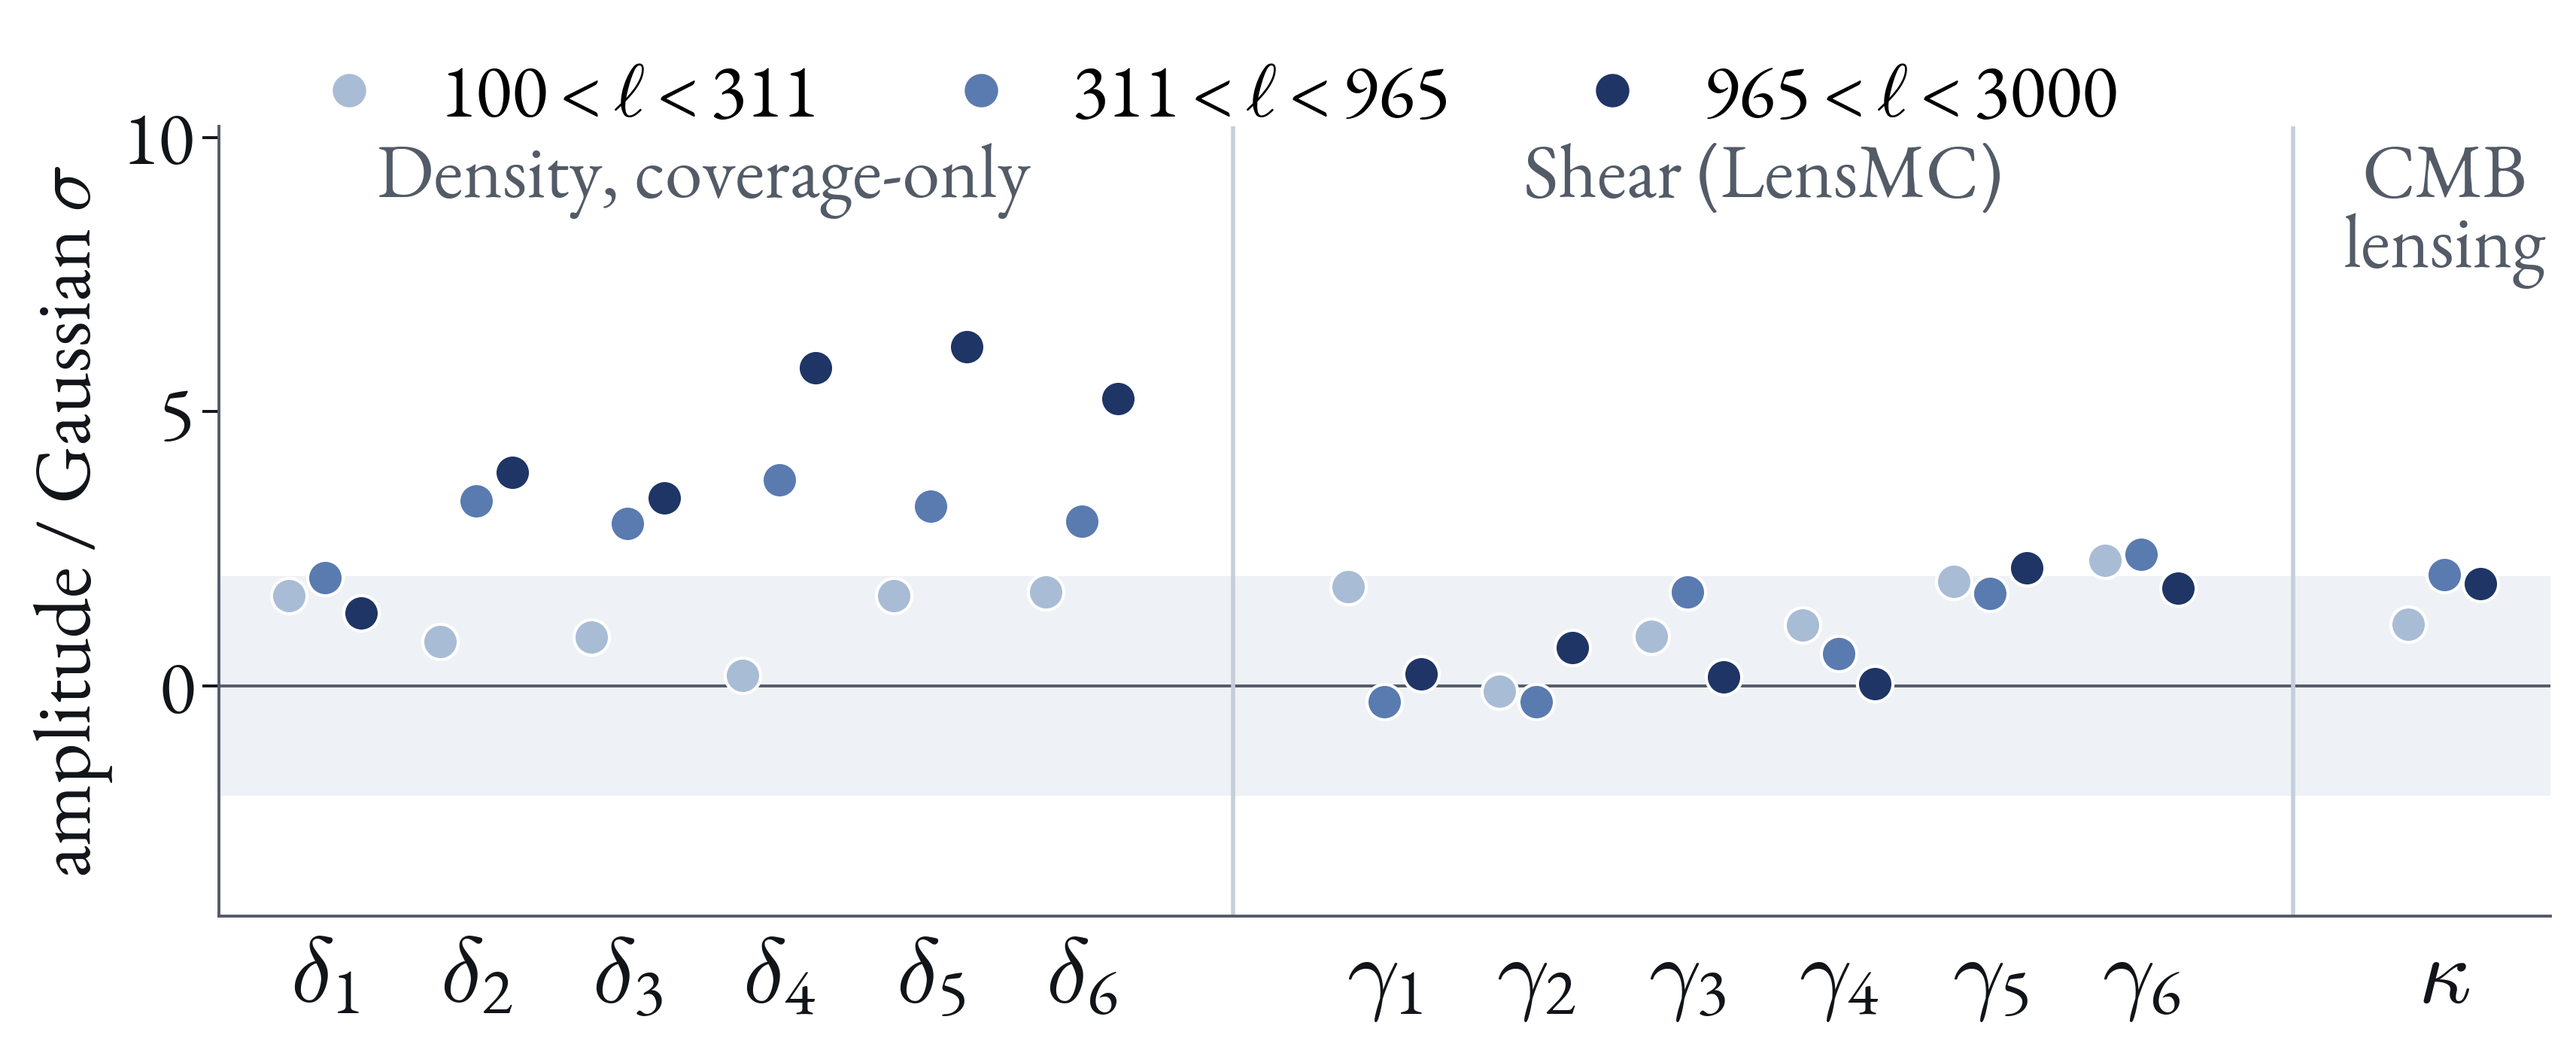
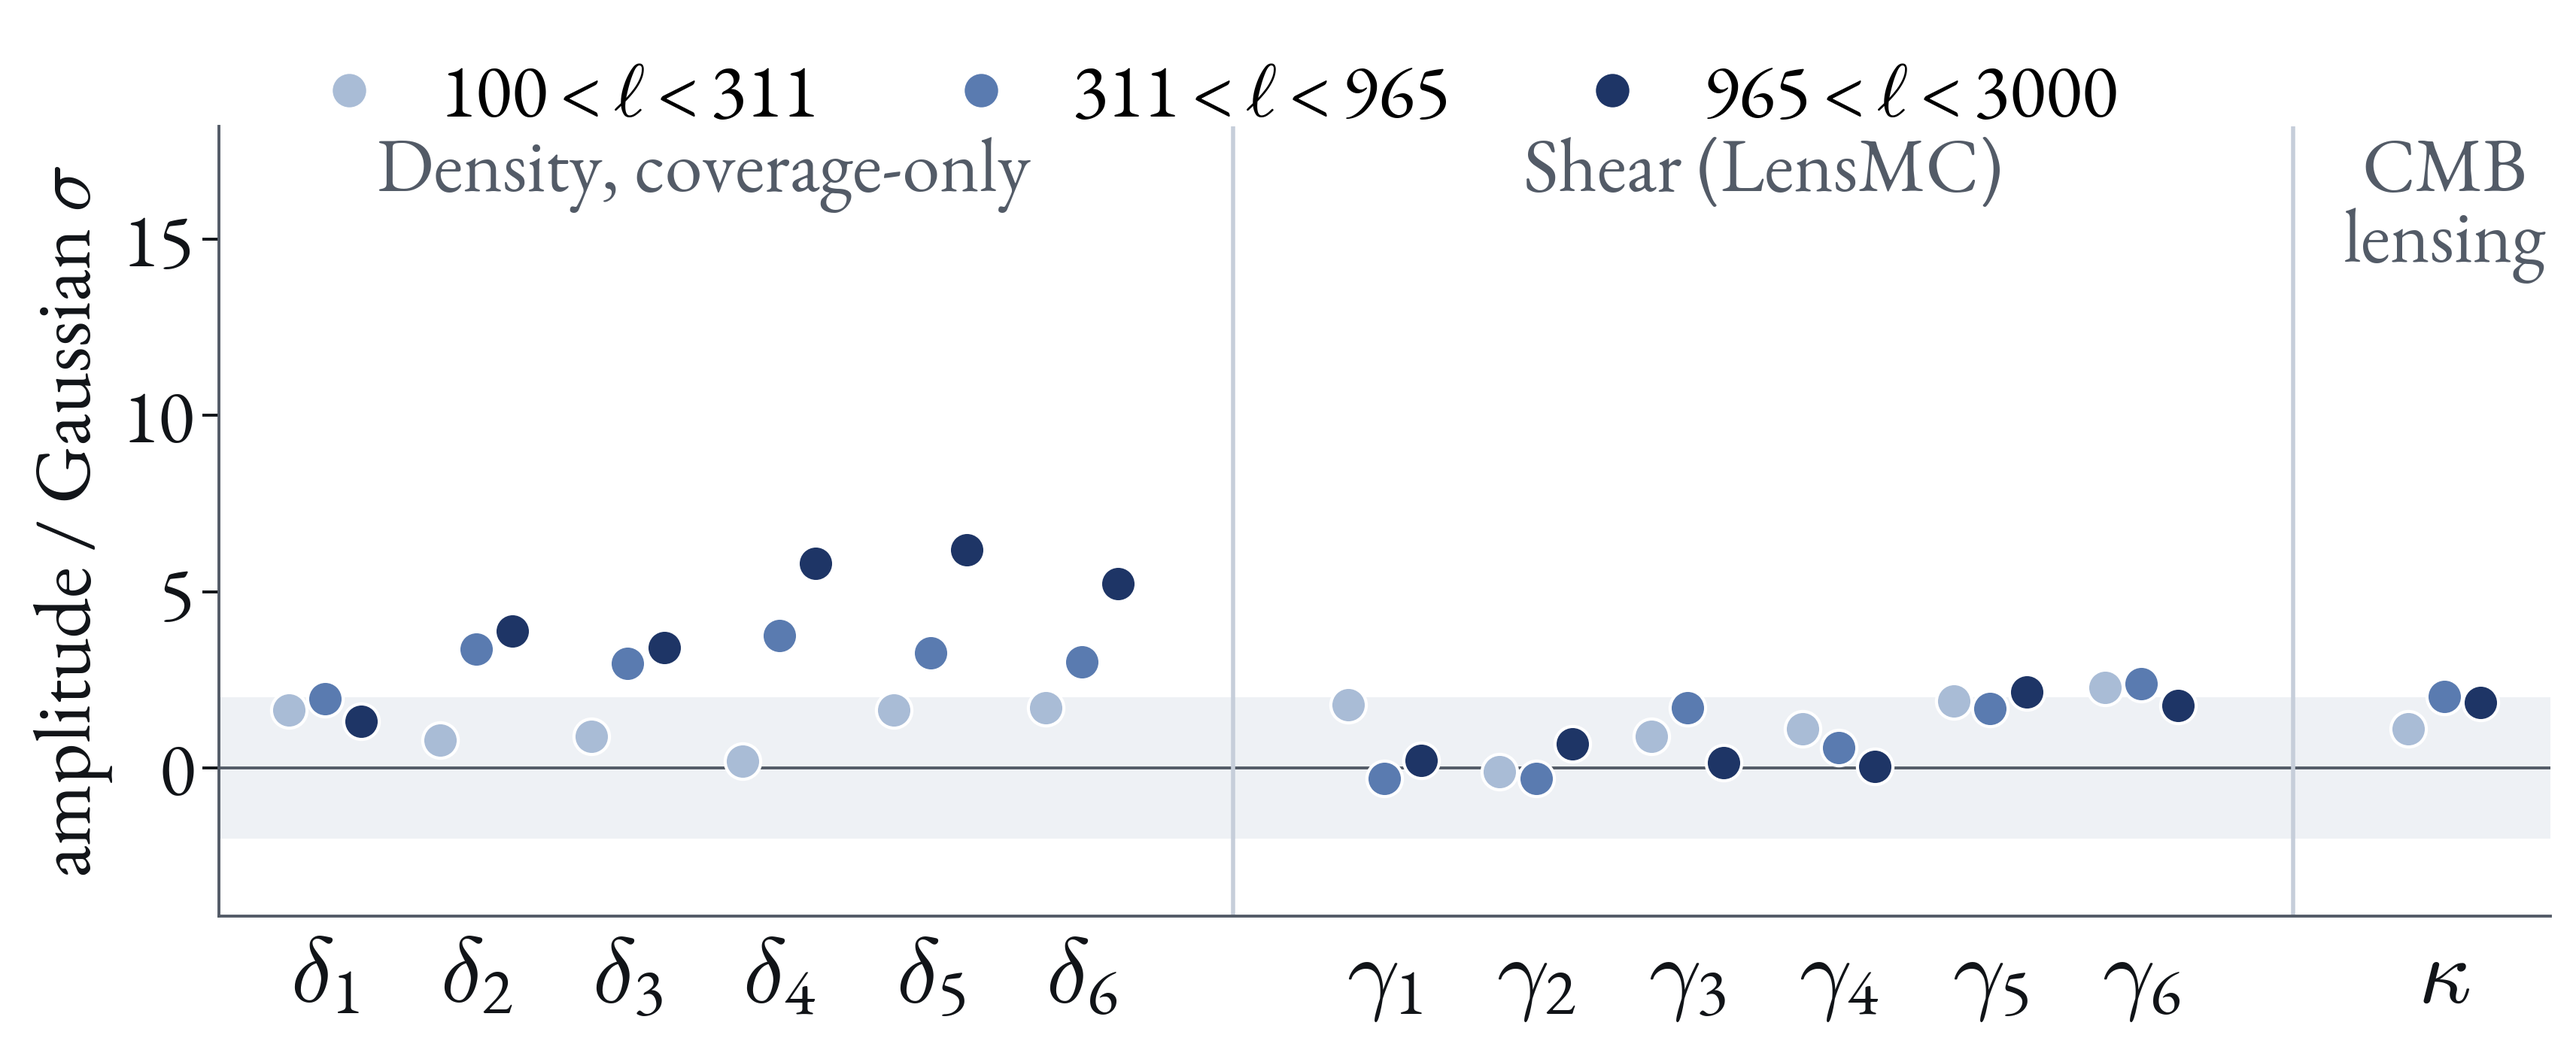
GC8 slide 4: fill Cycle-2 extinction amplitudes on unclipped axes

diff --git a/2610_GC8_Systematics/slides/extinction-pulls.html b/2610_GC8_Systematics/slides/extinction-pulls.html
@@ -1,11 +1,12 @@
 <section data-preliminary data-layout="figure-text" data-stack>
-  <h2><span data-variant="c1">$\delta$, high-$z$ $\gamma$ and $\kappa$ correlate positively with extinction</span><span data-variant="c2">Every tracer against extinction, Cycle 2</span></h2>
+  <h2><span data-variant="c1">$\delta$, high-$z$ $\gamma$ and $\kappa$ correlate positively with extinction</span><span data-variant="c2">Cycle-2 extinction crosses rise at high $\ell$</span></h2>
   <figure>
     <img src="images/gc8_extinction_c1.png" data-alt='{"c2": "images/gc8_extinction_c2.png"}' alt="Coherent amplitude of each tracer's cross-spectrum with the VMPZ extinction template, in Gaussian sigma, in three multipole ranges, for density bins 1 to 6, shear bins 1 to 6 and CMB lensing. In Cycle 1 every density bin is positive, from 0 to 2 sigma below multipole 311 to 1 to 6 sigma above multipole 965, and rising with redshift; the shear bins scatter about zero except bins 5 and 6 at about plus 2; CMB lensing is at plus 1 to 2">
-    <span class="source"><span data-variant="c1">Cycle 1: TR1 v1.1 coverage-only $\delta$, LensMC $\gamma$, SPT-3G $\kappa$ × VMPZ extinction</span><span data-variant="c2">Cycle 2: tr1_v2 visibility-corrected $\delta$, LensMC $\gamma$, SPT-3G $\kappa$ × DR1 R2 extinction</span> · five bands per range</span>
+    <span class="source"><span data-variant="c1">Cycle 1: TR1 v1.1 coverage-only $\delta$, LensMC $\gamma$, SPT-3G $\kappa$ × VMPZ extinction</span><span data-variant="c2">Cycle 2: tr1_v2 × DR1 R2 extinction · joint Gaussian blocks · visibility-corrected $\delta$</span> · five bands per range</span>
   </figure>
   <div class="text">
-    <p>Obscuration would lower counts ($\delta \times E \lt 0$) and leave $\gamma$ and $\kappa$ untouched.</p>
+    <p data-variant="c1">Obscuration would lower counts ($\delta \times E \lt 0$) and leave $\gamma$ and $\kappa$ untouched.</p>
+    <p data-variant="c2">Above $\ell=965$: $\delta_6$ $+14.94\sigma_\mathrm{G}$, $\gamma_6$ $+15.34\sigma_\mathrm{G}$. A nonzero cross is expected from the CIB (slide 5), not evidence by itself for contamination.</p>
   </div>
   <aside class="notes">
     <h3>What is plotted</h3>
@@ -22,7 +23,9 @@
     <h3>With the visibility weights (Cycle 1)</h3>
     <p>Dividing $\delta$ by the VMPZ test visibility weights (slide 2) removes most of this: extinction in lens bins 2, 3, 4 and 6 goes to PTE 0.12–0.97, and only $\delta_5 \times$ extinction remains (PTE $9\times10^{-8}$). If extinction is among the visibility model's inputs, the weights remove the CIB-carried correlation by construction, along with the clustering it traces (inferred; the five SOM inputs are not named in the headers). Deprojecting the template from coverage-only $\delta$ changes the $\delta\delta$ bandpowers little ($Q_{2C}$ = 0.007–0.046, at most $0.2\sigma$ per band), but in the direction of the CIB-correlated modes: it subtracts real clustering.</p>
     <h3>Cycle 2 (tr1_v2)</h3>
-    <p>DR1 R2 extinction template, tr1_v2 selection, and density maps visibility-corrected at the source: the Cycle-2 $\delta$ rows therefore compare with the Cycle-1 <em>visibility-weighted</em> ones (PTE 0.12–0.97 except $\delta_5$), not with the coverage-only rows plotted for Cycle 1. Shear and $\kappa$ compare directly. Covariance: each test's block of the joint Gaussian covariance, $\kappa$ included. Pending until <code>results/tr1_v2/systematics/gaussian_null_family.tar</code> lands.</p>
+    <p>DR1 R2 extinction template, tr1_v2 selection, and density maps visibility-corrected at the source: the Cycle-2 $\delta$ rows therefore compare with the Cycle-1 <em>visibility-weighted</em> ones (PTE 0.12–0.97 except $\delta_5$), not with the coverage-only rows plotted for Cycle 1. Shear and $\kappa$ compare directly. Covariance: each test's block of the joint Gaussian covariance, $\kappa$ included. The plotted high-$\ell$ coherent amplitudes ($965\lt\ell\lt3000$) are +13.16, +9.85, +11.07, +12.96, +12.75, +14.94 for $\delta_{1\ldots6}$; +4.50, +3.79, +3.48, +6.63, +10.32, +15.34 for $\gamma_{1\ldots6}$; and +5.82 for $\kappa$. Below $\ell=311$, $\delta$ spans −0.70 to +2.11, $\gamma$ −0.09 to +2.59. Both cycles use the same expanded vertical axis; no point is clipped.</p>
+    <p>Over all 15 bands, $\delta$ has $\chi^2$ = 228.06, 133.24, 141.75, 228.53, 220.82, 292.70 and coherent $S$ = +10.65, +6.55, +7.76, +10.11, +10.72, +12.34. For $\gamma$: $\chi^2$ = 38.82, 19.79, 22.71, 64.79, 133.50, 313.47 and $S$ = +3.82, +2.01, +2.73, +4.46, +8.76, +13.19. For $\kappa$: $\chi^2=57.67$, PTE $6.32\times10^{-7}$, $S=+5.93$. All amplitudes are in Gaussian $\sigma$, conditional on the fixed template; they are not mock-calibrated significances.</p>
+    <p>The strongest single band is $\delta_6$ at $\ell=2695.5$, $+10.45\sigma_\mathrm{G}$; $\gamma_6$ peaks at $\ell=2148$, $+9.56\sigma_\mathrm{G}$. All six density spectra peak positively in the last band, within broad high-$\ell$ sequences. These failures of a zero-cross null must be read with slide 5: its 857 GHz CIB route predicts nonzero extinction crosses. The Cycle-1 visibility-weighted $\delta_6$ deficit does not persist in that route comparison. The selections, templates and windows changed, so this does not isolate the visibility correction as the cause.</p>
     <p>Sources: lc outputs <code>results/tr1/tr1_systematics/extinction_vis.tar</code> (Cycle 1, LensMC, SPT-3G winter GMV) and <code>results/tr1_v2/systematics/gaussian_null_family.tar</code> (Cycle 2); finding <code>science/cmbx/methodology/systematics/tr1-systematics-crosses/extinction-template-carries-lss</code>; visibility weights from <code>…/visibility-corrected-delta</code>. Figure and every number above: <code>2610_GC8_Systematics/make_cycles.py extinction</code>.</p>
   </aside>
 </section>

diff --git a/2610_GC8_Systematics/make_cycles.py b/2610_GC8_Systematics/make_cycles.py
@@ -253,7 +253,7 @@ RANGE_COLORS = ['#A9BCD6', '#5A7BB0', '#1E3566']
 RANGE_LABELS = [r'$100<\ell<311$', r'$311<\ell<965$', r'$965<\ell<3000$']
 
 
-def extinction(cycle, ylim=(-4.2, 10.2)):
+def extinction(cycle, ylim=(-4.2, 18.2)):
     """Each tracer x extinction cross as a signed coherent amplitude in Gaussian sigma, in three
     l-ranges, tracers grouped by class and ordered by redshift within each class."""
     delta = 'raw' if cycle == 'c1' else 'vis'
